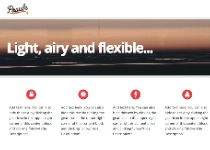
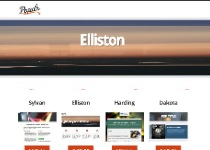
updated size4 image slider, new screenshot

diff --git a/styles/main.less b/styles/main.less
@@ -169,7 +169,7 @@ body {
 .populr-image-slider .slideshow .slide img { width: 100%; height: auto; }
 .asset-size-1 .asset-type-imagegroup, .asset-size-1 .asset-type-embedgroup { margin-top: 20px; }
 
-.asset-size-3 .populr-image-slider { overflow: hidden; }
+.asset-size-3 .populr-image-slider, .asset-size-4 .populr-image-slider { overflow: hidden; }
 
 .my-image-hover-div{
 
